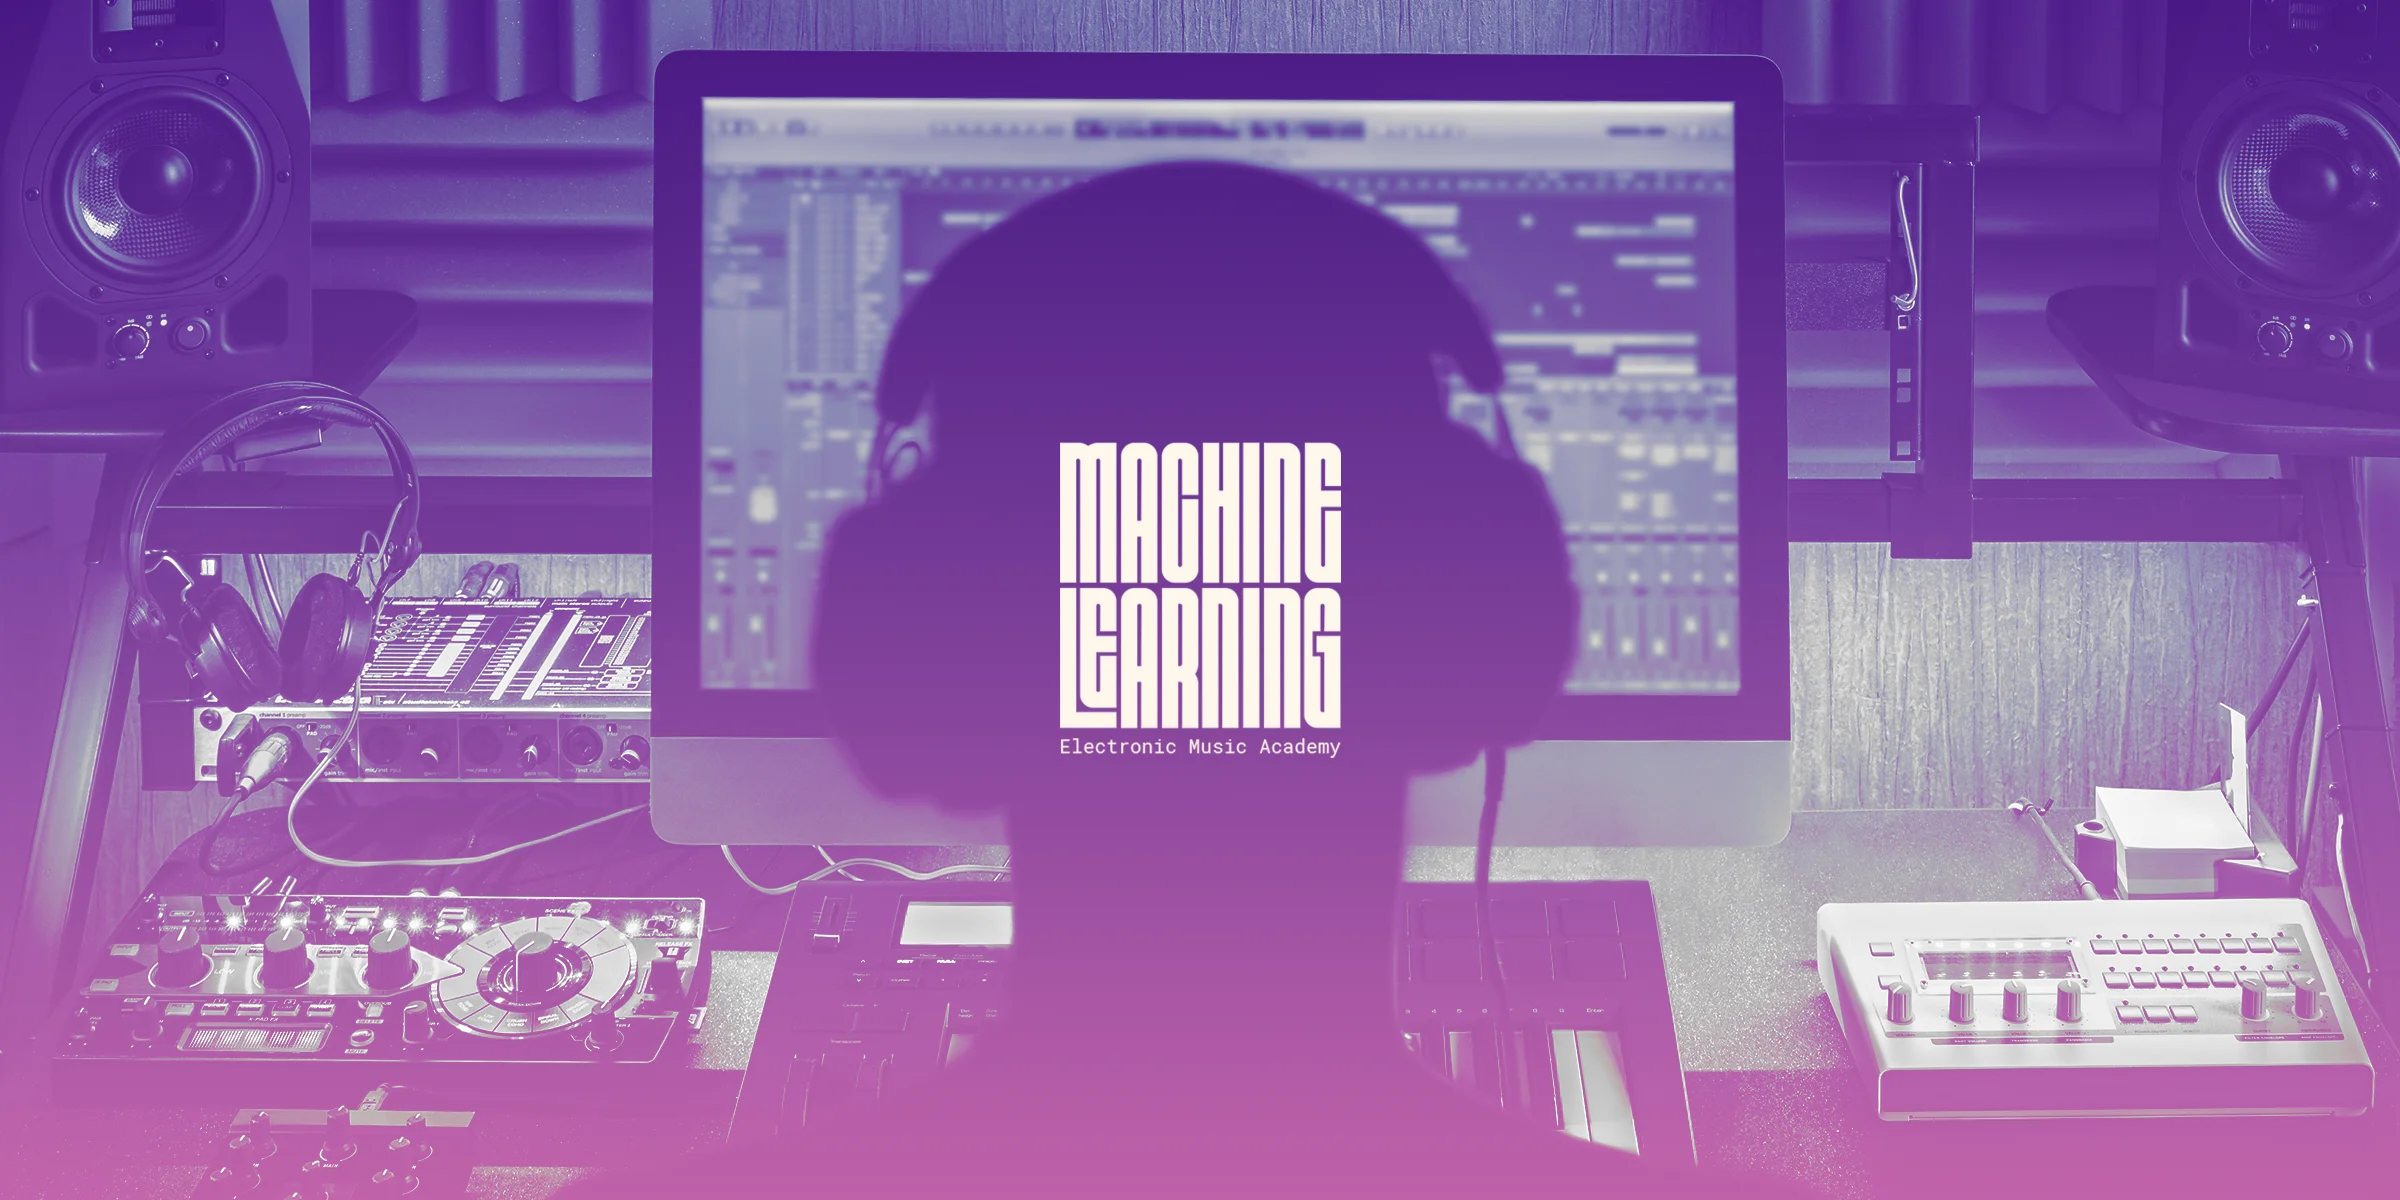
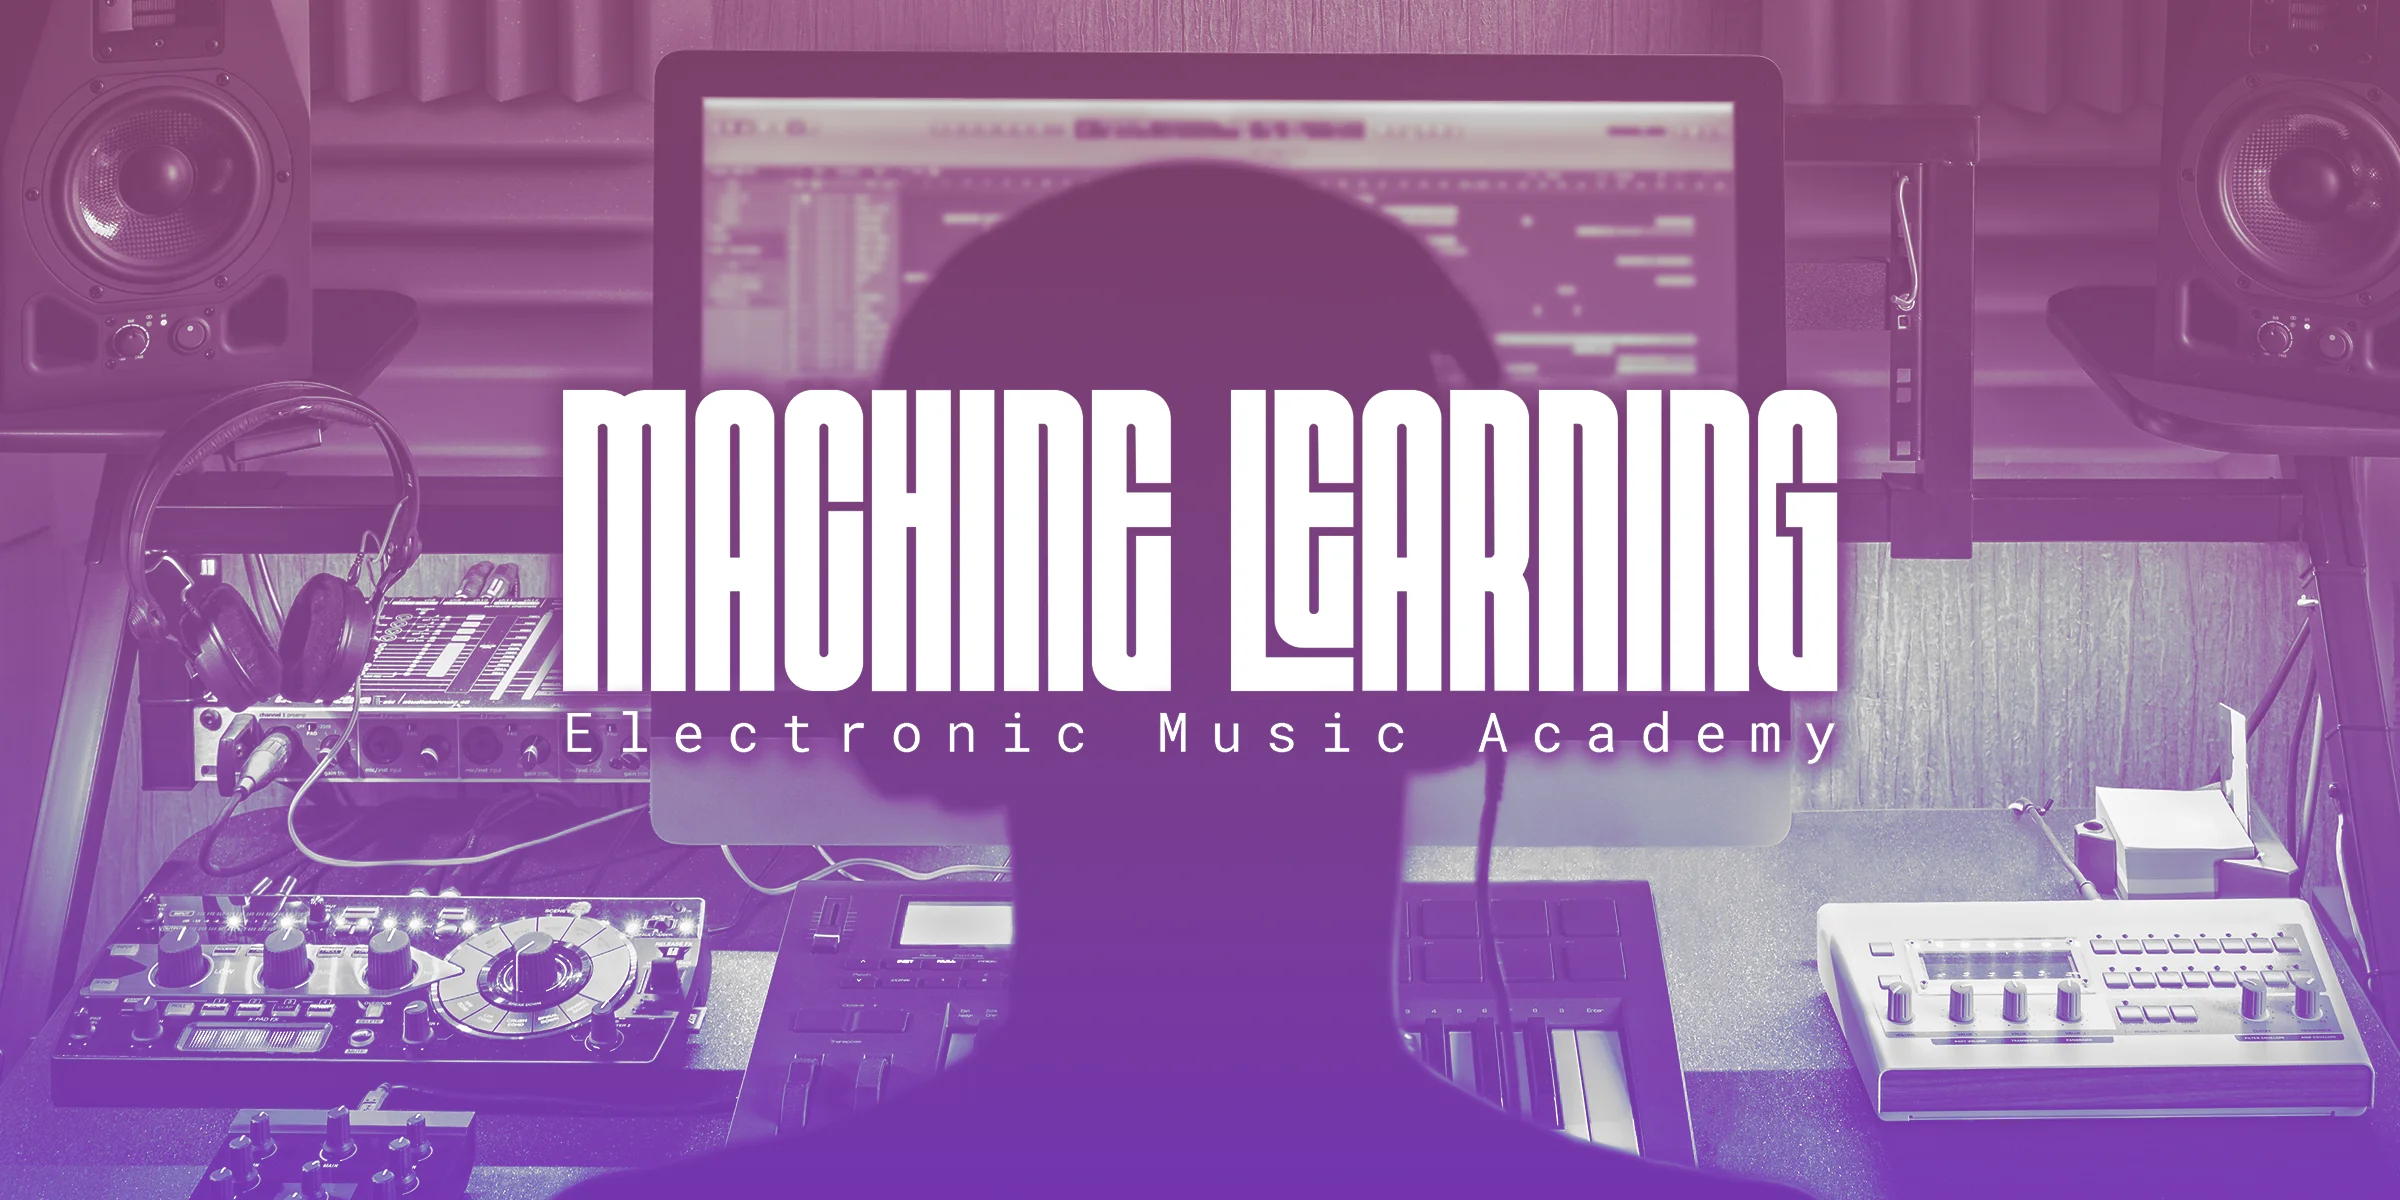
add responsive stlying to index hero image

diff --git a/assets/css/style.css b/assets/css/style.css
@@ -1108,7 +1108,7 @@ p {
 
     .rytm-tutorial-image {
         height: 450px;
-}
+    }
 
     .prophet-tutorial-image {
         height: 450px;
@@ -1117,6 +1117,24 @@ p {
     .tutorial-description p {
         display: none;
     }
+
+    .about-section h1 {
+        font-size: 2.5rem;
+    }
+
+}
+
+@media only screen and (max-width:500px){
+    .hero-image {
+        height: 30vh;
+    }
+
+    .about-section h1 {
+        font-size: 2rem;
+    }
+}
+
+
 
     /* footer responsive styling */
 
